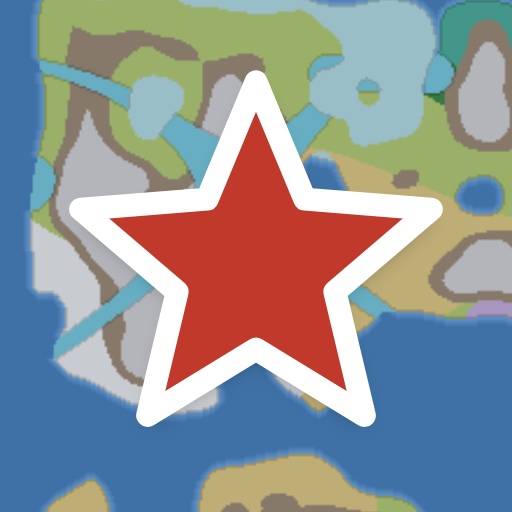
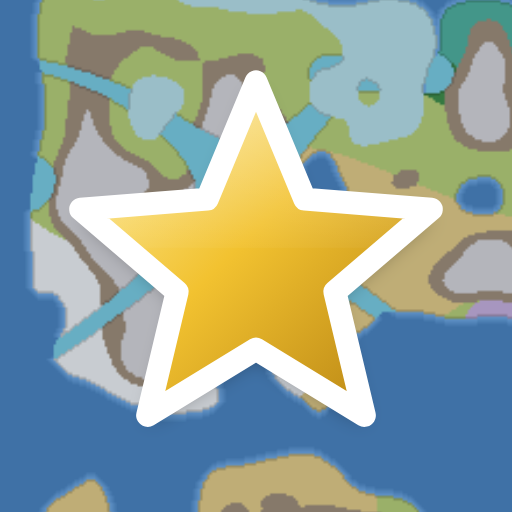
Icona di Damamondo con la stella dorata (indizio della capitale dorata) e foto profilo per i social
Claude-Session: https://claude.ai/code/session_012NSARouNv5TySD4HQfqCNh

Changed region(s): [[0.2188, 0.2188, 0.7812, 0.7812], [0.5938, 0.2812, 0.6562, 0.3438]]

diff --git a/tools/make-icons.js b/tools/make-icons.js
@@ -1,4 +1,4 @@
-// Damamondo – disegna le icone dell'app (la stella della Capitale su una mappa del gioco).
+// Damamondo – disegna le icone dell'app (la stella dorata della Capitale su una mappa del gioco).
 // Avvio: node tools/make-icons.js   (serve Playwright; le icone si rifanno solo se cambia il disegno)
 const path = require('path');
 const { chromium } = require('playwright');
@@ -8,7 +8,8 @@ const SIZES = [
   { file: 'icon-192.png', size: 192, pad: 0 },
   { file: 'apple-touch-icon.png', size: 180, pad: 0 },
   { file: 'icon-maskable-512.png', size: 512, pad: .12 },   // la stella resta dentro la zona sicura (Android ritaglia i bordi)
-  { file: 'favicon-32.png', size: 32, pad: 0 }
+  { file: 'favicon-32.png', size: 32, pad: 0 },
+  { file: 'profilo-social.png', size: 1024, pad: 0 }   // foto profilo per i social (Instagram, YouTube… la ritagliano in un cerchio)
 ];
 (async () => {
   const b = await chromium.launch();
@@ -35,9 +36,16 @@ const SIZES = [
       }
       g.closePath();
       g.shadowColor = 'rgba(0,0,0,.35)'; g.shadowBlur = size * .04; g.shadowOffsetY = size * .015;
-      g.fillStyle = '#c0392b'; g.fill();
+      // stella dorata (come la capitale dorata, il premio della mappa originale): sfumatura d'oro e bordo bianco
+      const gr = g.createLinearGradient(cx - r, cy - r, cx + r, cy + r);
+      gr.addColorStop(0, '#fff3b0'); gr.addColorStop(.45, '#f2c230'); gr.addColorStop(1, '#a8740c');
+      g.fillStyle = gr; g.fill();
       g.shadowColor = 'transparent';
       g.lineJoin = 'round'; g.lineWidth = Math.max(1.5, size * .045); g.strokeStyle = '#ffffff'; g.stroke();
+      // riflesso di luce sulla metà alta
+      g.save(); g.clip();
+      const l = g.createLinearGradient(cx, cy - r, cx, cy); l.addColorStop(0, 'rgba(255,255,255,.35)'); l.addColorStop(1, 'rgba(255,255,255,0)');
+      g.fillStyle = l; g.fillRect(cx - r, cy - r, 2 * r, r * .9); g.restore();
       return c.toDataURL('image/png');
     }, s);
     require('fs').writeFileSync(path.join(ROOT, 'icons', s.file), Buffer.from(data.split(',')[1], 'base64'));

diff --git a/sw.js b/sw.js
@@ -1,5 +1,5 @@
 // Damamondo – funzionamento senza internet. File creato da tools/build-pages.js: non modificarlo a mano.
-const CACHE = 'damamondo-fae979b7e9f3';
+const CACHE = 'damamondo-94c385b35f27';
 const FILES = ["./","index.html","regole.html","manifest.webmanifest","css/style.css","icons/icon-192.png","icons/icon-512.png","icons/apple-touch-icon.png","icons/favicon-32.png","js/bot.js","js/buildings.js","js/combat.js","js/data.js","js/decor.js","js/economy.js","js/fx.js","js/game.js","js/main.js","js/map.js","js/menu.js","js/music.js","js/prefs.js","js/render.js","js/rules.js","js/save.js","js/secret-data.js","js/secret.js","js/settings.js","js/sfx.js","js/territory.js","js/transport.js","js/troops.js","js/turn.js","js/ui.js"];
 
 self.addEventListener('install', e => {
